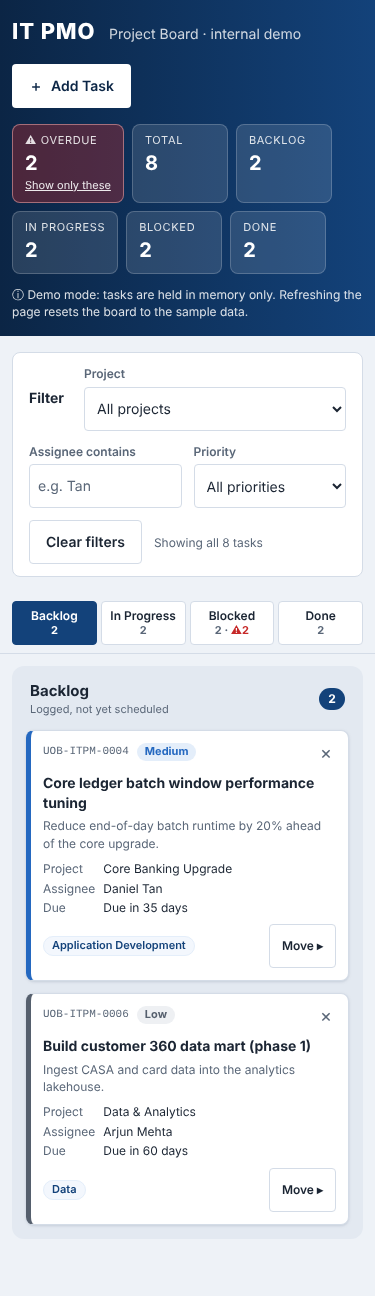
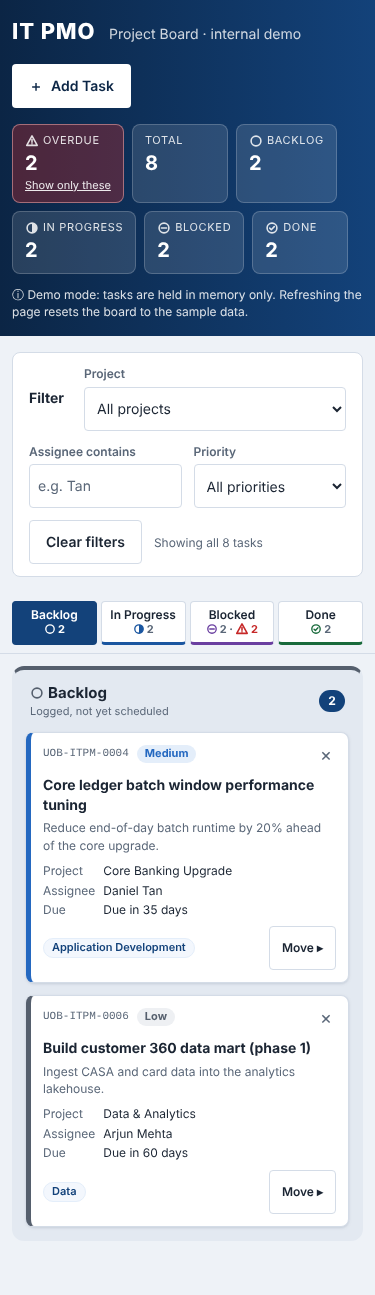
Apply design system to the board
- Add status colour tokens (Backlog, In Progress, Blocked, Done) and use
  them for column top borders, heading icons, move-menu options and phone
  tab underlines
- Add stroke-only SVG status/overdue icons in currentColor, replacing the
  emoji warning glyph so icons follow theme colours on light and dark
- Replace every raw colour outside :root with a token (--c-column,
  --c-on-dark, --c-critical-border, --c-critical-tint)
- Refresh desktop and phone screenshots; update skill to the new tokens

Claude-Session: https://claude.ai/code/session_01TS5PHmegvygJPFM8M2RRJv

diff --git a/index.html b/index.html
@@ -17,7 +17,9 @@
   --c-brand-50:  #f3f7fd;
 
   --c-bg: #eef2f7;
+  --c-column: #e3e9f1;
   --c-surface: #ffffff;
+  --c-on-dark: #ffffff;
   --c-border: #d4dce7;
   --c-text: #1b2533;
   --c-text-muted: #5a6778;
@@ -30,6 +32,14 @@
   --c-medium-bg: #e4eefa;
   --c-low: #555f6d;
   --c-low-bg: #eef0f3;
+  --c-critical-border: #f5c2c2;
+  --c-critical-tint: #fffafa;
+
+  /* Status colours (text/accent + tint); Overdue reuses the critical set */
+  --c-status-backlog: #555f6d;   --c-status-backlog-bg: #eef0f3;
+  --c-status-progress: #1a56a0;  --c-status-progress-bg: #e4eefa;
+  --c-status-blocked: #6a3fa0;   --c-status-blocked-bg: #f1ebfa;
+  --c-status-done: #186a3b;      --c-status-done-bg: #e6f4ec;
 
   --c-success: #1e7d45;
   --c-warning: #a35b00;
@@ -85,7 +95,7 @@ button, input, select, textarea { font: inherit; color: inherit; }
    ========================================================= */
 .app-header {
   background: linear-gradient(90deg, var(--c-brand-900), var(--c-brand-700));
-  color: #fff;
+  color: var(--c-on-dark);
   padding: var(--space-4) var(--space-5);
 }
 .header-top {
@@ -101,10 +111,10 @@ button, input, select, textarea { font: inherit; color: inherit; }
   border: 1px solid transparent; border-radius: var(--radius-sm);
   min-height: var(--tap); padding: 0 var(--space-4); cursor: pointer; font-weight: 600;
 }
-.btn-primary { background: var(--c-brand-500); color: #fff; }
+.btn-primary { background: var(--c-brand-500); color: var(--c-on-dark); }
 .btn-primary:hover { background: var(--c-brand-600); }
 .btn-primary[disabled] { opacity: 0.6; cursor: progress; }
-.btn-light { background: #fff; color: var(--c-brand-900); }
+.btn-light { background: var(--c-surface); color: var(--c-brand-900); }
 .btn-light:hover { background: var(--c-brand-100); }
 .btn-light[data-sending]::after { content: "Sending…"; font-weight: 400; font-size: 12px; color: var(--c-text-muted); }
 .btn-ghost { background: transparent; border-color: var(--c-border); color: var(--c-text); }
@@ -121,13 +131,13 @@ button, input, select, textarea { font: inherit; color: inherit; }
   padding: var(--space-2) var(--space-3);
   min-width: 96px;
 }
-.summary .label { display: block; font-size: 11px; text-transform: uppercase; letter-spacing: 0.06em; opacity: 0.85; }
+.summary .label { display: flex; align-items: center; gap: var(--space-1); font-size: 11px; text-transform: uppercase; letter-spacing: 0.06em; opacity: 0.85; }
 .summary .value { font-size: 20px; font-weight: 700; }
 .summary .is-alert { background: rgba(198, 40, 40, 0.35); border-color: rgba(255, 180, 180, 0.5); }
 .summary li.has-btn { padding: 0; }
 .summary-btn {
   display: block; width: 100%; height: 100%; min-height: var(--tap); text-align: left;
-  background: transparent; border: 0; border-radius: var(--radius-md); color: #fff;
+  background: transparent; border: 0; border-radius: var(--radius-md); color: var(--c-on-dark);
   padding: var(--space-2) var(--space-3); cursor: pointer;
 }
 .summary-btn:hover { background: rgba(255, 255, 255, 0.1); }
@@ -150,7 +160,7 @@ main { padding: var(--space-4) var(--space-5) var(--space-6); }
 .field label { font-size: 12px; font-weight: 600; color: var(--c-text-muted); }
 .field input, .field select, .field textarea {
   border: 1px solid var(--c-border); border-radius: var(--radius-sm);
-  min-height: var(--tap); padding: 6px var(--space-2); background: #fff; min-width: 160px;
+  min-height: var(--tap); padding: 6px var(--space-2); background: var(--c-surface); min-width: 160px;
 }
 .field textarea { resize: vertical; min-height: 72px; }
 .filter-count { margin-left: auto; font-size: 12px; color: var(--c-text-muted); align-self: center; }
@@ -163,7 +173,8 @@ main { padding: var(--space-4) var(--space-5) var(--space-6); }
   gap: var(--space-4); align-items: start;
 }
 .column {
-  background: #e3e9f1; border: 2px solid transparent;
+  background: var(--c-column); border: 2px solid transparent;
+  border-top: 4px solid var(--status, transparent);
   border-radius: var(--radius-lg); padding: var(--space-3);
   min-height: 240px; transition: background 0.15s, border-color 0.15s;
 }
@@ -174,10 +185,19 @@ main { padding: var(--space-4) var(--space-5) var(--space-6); }
 }
 .column-header h2 { margin: 0; font-size: 15px; }
 .column-header .hint { display: block; font-size: 11px; color: var(--c-text-muted); font-weight: 400; }
-.col-alert { display: inline-block; margin-top: 2px; font-size: 11px; font-weight: 700; color: var(--c-critical); }
+.col-alert { display: inline-flex; align-items: center; gap: var(--space-1); margin-top: 2px; font-size: 11px; font-weight: 700; color: var(--c-critical); }
 .board-tabs { display: none; }
+[data-status="Backlog"]     { --status: var(--c-status-backlog);  --status-bg: var(--c-status-backlog-bg); }
+[data-status="In Progress"] { --status: var(--c-status-progress); --status-bg: var(--c-status-progress-bg); }
+[data-status="Blocked"]     { --status: var(--c-status-blocked);  --status-bg: var(--c-status-blocked-bg); }
+[data-status="Done"]        { --status: var(--c-status-done);     --status-bg: var(--c-status-done-bg); }
+.icon { flex: none; width: 14px; height: 14px; vertical-align: -2px; }
+.column-header h2 > .icon { color: var(--status); margin-right: var(--space-1); }
+.pill .icon, .overdue .icon, .col-alert .icon { width: 12px; height: 12px; }
+.column-header h2 { display: flex; flex-wrap: wrap; align-items: center; }
+.column-header .hint, .column-header .col-alert { flex-basis: 100%; }
 .count-badge {
-  background: var(--c-brand-700); color: #fff; border-radius: 999px;
+  background: var(--c-brand-700); color: var(--c-on-dark); border-radius: 999px;
   min-width: 26px; padding: 2px var(--space-2); text-align: center; font-size: 12px; font-weight: 700;
 }
 .card-list { list-style: none; margin: 0; padding: 0; display: flex; flex-direction: column; gap: var(--space-3); }
@@ -198,8 +218,8 @@ main { padding: var(--space-4) var(--space-5) var(--space-6); }
 .card[data-priority="Medium"]   { border-left-color: var(--c-medium); }
 .card[data-priority="Low"]      { border-left-color: var(--c-low); }
 
-.card.is-overdue { background: #fffafa; }
-.card-top { display: flex; align-items: center; gap: var(--space-2); padding-right: 36px; flex-wrap: wrap; }
+.card.is-overdue { background: var(--c-critical-tint); }
+.card-top { display: flex; align-items: center; gap: var(--space-2); padding-right: calc(var(--tap) - var(--space-2)); flex-wrap: wrap; }
 .task-id { font-family: var(--font-mono); font-size: 11px; color: var(--c-text-muted); }
 .card-title { margin: var(--space-3) 0 var(--space-1); font-size: 14px; font-weight: 700; word-wrap: break-word; }
 .card-desc { margin: 0 0 var(--space-2); font-size: 12px; color: var(--c-text-muted); word-wrap: break-word; }
@@ -211,7 +231,7 @@ main { padding: var(--space-4) var(--space-5) var(--space-6); }
 .card-foot { display: flex; align-items: center; justify-content: space-between; gap: var(--space-2); margin-top: var(--space-2); flex-wrap: wrap; }
 
 .pill, .tag, .overdue {
-  display: inline-block; border-radius: 999px; padding: 1px var(--space-2);
+  display: inline-flex; align-items: center; gap: 2px; border-radius: 999px; padding: 1px var(--space-2);
   font-size: 11px; font-weight: 700; white-space: nowrap;
 }
 .pill-Critical { background: var(--c-critical-bg); color: var(--c-critical); }
@@ -219,7 +239,7 @@ main { padding: var(--space-4) var(--space-5) var(--space-6); }
 .pill-Medium   { background: var(--c-medium-bg); color: var(--c-medium); }
 .pill-Low      { background: var(--c-low-bg); color: var(--c-low); }
 .tag { background: var(--c-brand-50); color: var(--c-brand-700); border: 1px solid var(--c-brand-100); font-weight: 600; }
-.overdue { background: var(--c-critical-bg); color: var(--c-critical); border: 1px solid #f5c2c2; }
+.overdue { background: var(--c-critical-bg); color: var(--c-critical); border: 1px solid var(--c-critical-border); }
 
 .icon-btn {
   border: 0; background: transparent; cursor: pointer; border-radius: var(--radius-sm);
@@ -242,18 +262,20 @@ main { padding: var(--space-4) var(--space-5) var(--space-6); }
 }
 .move-menu .menu-label { width: 100%; font-size: 11px; color: var(--c-text-muted); }
 .move-menu button {
-  border: 1px solid var(--c-brand-100); background: #fff; border-radius: var(--radius-sm);
+  border: 1px solid var(--c-brand-100); background: var(--c-surface); border-radius: var(--radius-sm);
   min-height: var(--tap); min-width: var(--tap); padding: 0 var(--space-3); font-size: 12px; cursor: pointer;
 }
 .move-menu button:hover { background: var(--c-brand-100); }
+.move-menu button[data-status] { display: inline-flex; align-items: center; gap: var(--space-1); }
+.move-menu button[data-status] .icon { color: var(--status); }
 
 .confirm {
   display: flex; align-items: center; gap: var(--space-2); margin-top: var(--space-2);
   padding: var(--space-2); background: var(--c-critical-bg); border-radius: var(--radius-sm);
   font-size: 12px; font-weight: 600; color: var(--c-critical);
 }
-.confirm button { border: 1px solid currentColor; background: #fff; border-radius: var(--radius-sm); min-height: var(--tap); min-width: var(--tap); padding: 0 var(--space-3); cursor: pointer; font-size: 12px; font-weight: 700; }
-.confirm .yes { background: var(--c-critical); color: #fff; border-color: var(--c-critical); }
+.confirm button { border: 1px solid currentColor; background: var(--c-surface); border-radius: var(--radius-sm); min-height: var(--tap); min-width: var(--tap); padding: 0 var(--space-3); cursor: pointer; font-size: 12px; font-weight: 700; }
+.confirm .yes { background: var(--c-critical); color: var(--c-on-dark); border-color: var(--c-critical); }
 
 /* =========================================================
    Add Task modal (native <dialog>)
@@ -277,7 +299,7 @@ dialog.modal::backdrop { background: rgba(11, 37, 69, 0.5); }
 .form-grid .field input, .form-grid .field select, .form-grid .field textarea { min-width: 0; width: 100%; }
 .req { color: var(--c-critical); }
 .error { color: var(--c-critical); font-size: 12px; min-height: 1em; margin: 0; }
-.field.has-error input, .field.has-error select, .field.has-error textarea { border-color: var(--c-critical); background: #fffafa; }
+.field.has-error input, .field.has-error select, .field.has-error textarea { border-color: var(--c-critical); background: var(--c-critical-tint); }
 .char-count { font-size: 11px; color: var(--c-text-muted); text-align: right; }
 .form-actions { display: flex; justify-content: flex-end; gap: var(--space-2); margin-top: var(--space-4); }
 
@@ -289,7 +311,7 @@ dialog.modal::backdrop { background: rgba(11, 37, 69, 0.5); }
   display: flex; flex-direction: column; gap: var(--space-2); max-width: min(380px, calc(100vw - 32px));
 }
 .toast {
-  background: var(--c-brand-900); color: #fff; border-left: 5px solid var(--c-success);
+  background: var(--c-brand-900); color: var(--c-on-dark); border-left: 5px solid var(--c-success);
   border-radius: var(--radius-md); padding: var(--space-3) var(--space-4);
   box-shadow: var(--shadow-modal); font-weight: 500;
 }
@@ -298,7 +320,7 @@ dialog.modal::backdrop { background: rgba(11, 37, 69, 0.5); }
 .toast { display: flex; align-items: center; justify-content: space-between; gap: var(--space-3); }
 .toast-action {
   flex: none; min-height: var(--tap); padding: 0 var(--space-3); border-radius: var(--radius-sm);
-  border: 1px solid rgba(255, 255, 255, 0.6); background: transparent; color: #fff; font-weight: 700; cursor: pointer;
+  border: 1px solid rgba(255, 255, 255, 0.6); background: transparent; color: var(--c-on-dark); font-weight: 700; cursor: pointer;
 }
 .toast-action:hover { background: rgba(255, 255, 255, 0.15); }
 
@@ -321,11 +343,16 @@ dialog.modal::backdrop { background: rgba(11, 37, 69, 0.5); }
     border: 1px solid var(--c-border); border-radius: var(--radius-sm); background: var(--c-surface);
     font-size: 12px; font-weight: 600; line-height: 1.2; cursor: pointer;
   }
-  .board-tab .tab-count { font-size: 11px; font-weight: 700; color: var(--c-text-muted); }
+  .board-tab { border-bottom: 3px solid var(--status); }
+  .board-tab .tab-name { white-space: nowrap; }
+  .board-tab .tab-count > .icon { color: var(--status); width: 12px; height: 12px; }
+  .board-tab .tab-count { display: inline-flex; align-items: center; gap: 2px; font-size: 11px; font-weight: 700; color: var(--c-text-muted); }
   .board-tab .tab-alert { color: var(--c-critical); }
-  .board-tab[aria-selected="true"] { background: var(--c-brand-700); border-color: var(--c-brand-700); color: #fff; }
+  .board-tab[aria-selected="true"] { background: var(--c-brand-700); border-color: var(--c-brand-700); color: var(--c-on-dark); }
   .board-tab[aria-selected="true"] .tab-count,
-  .board-tab[aria-selected="true"] .tab-alert { color: #fff; }
+  .board-tab[aria-selected="true"] .tab-alert,
+  .board-tab[aria-selected="true"] .tab-count > .icon { color: var(--c-on-dark); }
+  .board-tab .tab-alert { display: inline-flex; align-items: center; gap: 2px; }
   .board {
     display: flex; position: relative; overflow-x: auto; gap: var(--space-3);
     scroll-snap-type: x mandatory; overscroll-behavior-x: contain; scrollbar-width: none;
@@ -487,6 +514,19 @@ const CATEGORIES = [
   "Application Development", "Infrastructure", "Cybersecurity", "Data", "Compliance", "Vendor",
 ];
 const PRIORITIES = ["Critical", "High", "Medium", "Low"];
+
+/* Status icons: stroke-only SVG in currentColor so they work on light and dark */
+const ICON_PATHS = {
+  "Backlog":     '<circle cx="8" cy="8" r="5.6"/>',
+  "In Progress": '<circle cx="8" cy="8" r="5.6"/><path d="M8 2.4a5.6 5.6 0 0 1 0 11.2z" fill="currentColor" stroke="none"/>',
+  "Blocked":     '<circle cx="8" cy="8" r="5.6"/><path d="M5 8h6"/>',
+  "Done":        '<circle cx="8" cy="8" r="5.6"/><path d="M5.4 8.2l1.8 1.8 3.4-3.6"/>',
+  "Overdue":     '<path d="M8 2.2l6 10.8H2z"/><path d="M8 6.4v3"/><path d="M8 11.3v.1"/>',
+};
+function icon(name) {
+  return `<svg class="icon" viewBox="0 0 16 16" fill="none" stroke="currentColor" stroke-width="1.8"
+    stroke-linecap="round" stroke-linejoin="round" aria-hidden="true" focusable="false">${ICON_PATHS[name]}</svg>`;
+}
 const ID_PREFIX = "UOB-ITPM-";
 
 /* =========================================================
@@ -607,20 +647,20 @@ function renderSummary() {
   const overdue = tasks.filter(isOverdue).length;
   const items = [
     { label: "Total", value: tasks.length },
-    ...STATUSES.map((s) => ({ label: s.key, value: tasks.filter((t) => t.status === s.key).length })),
+    ...STATUSES.map((s) => ({ label: s.key, icon: s.key, value: tasks.filter((t) => t.status === s.key).length })),
   ];
   const pressed = state.filters.overdueOnly;
   const overdueTile = `
     <li class="has-btn ${overdue > 0 ? "is-alert" : ""}">
       <button type="button" class="summary-btn" id="overdue-toggle" aria-pressed="${pressed}"
               ${overdue === 0 && !pressed ? "disabled" : ""}>
-        <span class="label"><span aria-hidden="true">⚠</span> Overdue</span>
+        <span class="label">${icon("Overdue")} Overdue</span>
         <span class="value">${overdue}</span>
         <span class="hint">${pressed ? "Show all" : "Show only these"}</span>
       </button>
     </li>`;
   document.getElementById("summary").innerHTML = overdueTile + items.map((i) =>
-    `<li><span class="label">${escapeHtml(i.label)}</span><span class="value">${i.value}</span></li>`
+    `<li><span class="label">${i.icon ? icon(i.icon) : ""}${escapeHtml(i.label)}</span><span class="value">${i.value}</span></li>`
   ).join("");
 }
 
@@ -636,7 +676,7 @@ function renderCard(task) {
     <div class="move-menu" role="group" aria-label="Move ${id} to column">
       <span class="menu-label">Move to:</span>
       ${STATUSES.filter((s) => s.key !== task.status).map((s) =>
-        `<button type="button" data-action="move-to" data-id="${id}" data-status="${escapeHtml(s.key)}">${escapeHtml(s.key)}</button>`
+        `<button type="button" data-action="move-to" data-id="${id}" data-status="${escapeHtml(s.key)}">${icon(s.key)}${escapeHtml(s.key)}</button>`
       ).join("")}
       <button type="button" data-action="move-cancel" data-id="${id}">Cancel</button>
     </div>` : "";
@@ -654,7 +694,7 @@ function renderCard(task) {
       <div class="card-top">
         <span class="task-id">${id}</span>
         <span class="pill pill-${escapeHtml(task.priority)}">${escapeHtml(task.priority)}</span>
-        ${overdue ? `<span class="overdue"><span aria-hidden="true">⚠</span> Overdue</span>` : ""}
+        ${overdue ? `<span class="overdue">${icon("Overdue")}Overdue</span>` : ""}
       </div>
       <button type="button" class="icon-btn delete-btn" data-action="delete" data-id="${id}"
               aria-label="Delete task ${id}">×</button>
@@ -690,8 +730,8 @@ function renderBoard(focusSelector) {
     return `
       <section class="column" id="panel-${slug}" data-status="${escapeHtml(key)}" aria-labelledby="${headingId}">
         <div class="column-header">
-          <h2 id="${headingId}">${escapeHtml(key)}<span class="hint">${escapeHtml(hint)}</span>${overdue
-            ? `<span class="col-alert"><span aria-hidden="true">⚠</span> ${overdue} overdue</span>` : ""}</h2>
+          <h2 id="${headingId}">${icon(key)}${escapeHtml(key)}<span class="hint">${escapeHtml(hint)}</span>${overdue
+            ? `<span class="col-alert">${icon("Overdue")}${overdue} overdue</span>` : ""}</h2>
           <span class="count-badge" aria-label="${colTasks.length} tasks">${colTasks.length}</span>
         </div>
         ${colTasks.length
@@ -722,11 +762,11 @@ function renderBoard(focusSelector) {
 function renderTabs(columns) {
   const active = state.ui.activeColumn;
   document.getElementById("board-tabs").innerHTML = columns.map((c, i) => `
-    <button type="button" class="board-tab" role="tab" id="tab-${c.slug}" data-index="${i}"
+    <button type="button" class="board-tab" role="tab" id="tab-${c.slug}" data-index="${i}" data-status="${escapeHtml(c.key)}"
             aria-controls="panel-${c.slug}" aria-selected="${i === active}" tabindex="${i === active ? 0 : -1}">
-      <span>${escapeHtml(c.key)}</span>
-      <span class="tab-count">${c.colTasks.length}${c.overdue
-        ? ` · <span class="tab-alert"><span aria-hidden="true">⚠</span>${c.overdue}<span class="visually-hidden"> overdue</span></span>` : ""}</span>
+      <span class="tab-name">${escapeHtml(c.key)}</span>
+      <span class="tab-count">${icon(c.key)}${c.colTasks.length}${c.overdue
+        ? ` · <span class="tab-alert">${icon("Overdue")}${c.overdue}<span class="visually-hidden"> overdue</span></span>` : ""}</span>
     </button>`).join("");
 }
 

diff --git a/.claude/skills/pmo-ux-review/SKILL.md b/.claude/skills/pmo-ux-review/SKILL.md
@@ -35,7 +35,7 @@ flag it as a finding.
 | Brand tint | `--c-brand-100` | `#e4eefa` | Light button hover, tag border |
 | Brand wash | `--c-brand-50` | `#f3f7fd` | Tag background, ghost hover, modal header, move menu |
 | Page background | `--c-bg` | `#eef2f7` | `body` |
-| Column background | — | `#e3e9f1` | Board columns |
+| Column background | `--c-column` | `#e3e9f1` | Board columns |
 | Surface | `--c-surface` | `#ffffff` | Cards, filter bar, modal, tabs |
 | Border | `--c-border` | `#d4dce7` | Cards, inputs, ghost buttons |
 | Drop target | `--c-drop` | `#d6e6fb` | Column while a card is dragged over it |
@@ -46,7 +46,7 @@ flag it as a finding.
 |---|---|---|---|
 | Primary text | `--c-text` | `#1b2533` | 13.7:1 on page bg |
 | Muted text | `--c-text-muted` | `#5a6778` | 5.8:1 on white, 4.7:1 on column bg (the lowest allowed) |
-| Text on dark header | — | `#ffffff` | Secondary header text may drop to 80–85% opacity, no lower |
+| Text on dark | `--c-on-dark` | `#ffffff` | Secondary header text may drop to 80–85% opacity, no lower |
 
 ### Accents and feedback
 
@@ -79,16 +79,22 @@ any status except Done.
 
 | Status | Text / accent | Background | Contrast | Icon |
 |---|---|---|---|---|
-| Backlog | `#555f6d` | `#eef0f3` | 5.7:1 | ○ |
-| In Progress | `#1a56a0` | `#e4eefa` | 6.2:1 | ◐ |
-| Blocked | `#6a3fa0` | `#f1ebfa` | 6.4:1 | ⛔ |
-| Done | `#186a3b` | `#e6f4ec` | 5.9:1 | ✓ |
-| Overdue | `#c62828` | `#fdecec` (border `#f5c2c2`) | 4.9:1 | ⚠ |
+| Backlog | `#555f6d` `--c-status-backlog` | `#eef0f3` `--c-status-backlog-bg` | 5.7:1 | Empty circle |
+| In Progress | `#1a56a0` `--c-status-progress` | `#e4eefa` `--c-status-progress-bg` | 6.2:1 | Half-filled circle |
+| Blocked | `#6a3fa0` `--c-status-blocked` | `#f1ebfa` `--c-status-blocked-bg` | 6.4:1 | Circle with a bar (no entry) |
+| Done | `#186a3b` `--c-status-done` | `#e6f4ec` `--c-status-done-bg` | 5.9:1 | Circle with a tick |
+| Overdue | `#c62828` `--c-critical` | `#fdecec` `--c-critical-bg`, border `#f5c2c2` `--c-critical-border` | 4.9:1 | Warning triangle |
 
+Where status colour appears: a 4px top border on each column, the column-heading
+icon, the move-menu option icons, and the 3px underline and icon on phone tabs.
+In code, `[data-status="…"]` sets `--status` / `--status-bg`; use those rather
+than naming the status token directly.
+
+Icons are the inline SVGs from `icon()` in `index.html`: 16×16 viewBox,
+1.8px strokes in `currentColor`, 14px (12px inside pills and tabs),
+`aria-hidden="true"`. Never use emoji, because their colour can't be controlled.
 Status is always labelled with text (or an icon plus visually-hidden text).
-Overdue cards also get a `#fffafa` card tint. Backlog, In Progress, Blocked
-and Done are not yet defined as tokens in `index.html`. Add them as
-`--c-status-*` variables before using them.
+Overdue cards also get a `#fffafa` (`--c-critical-tint`) card tint.
 
 ## Typography
 
